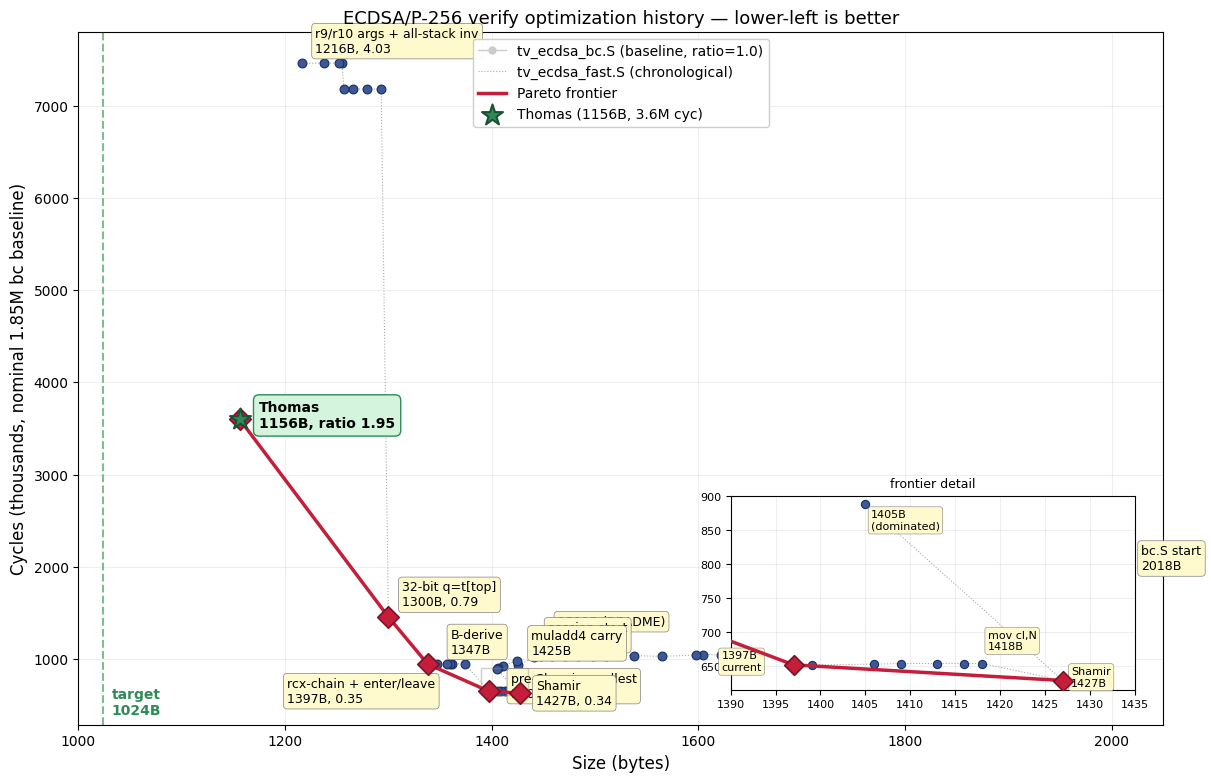
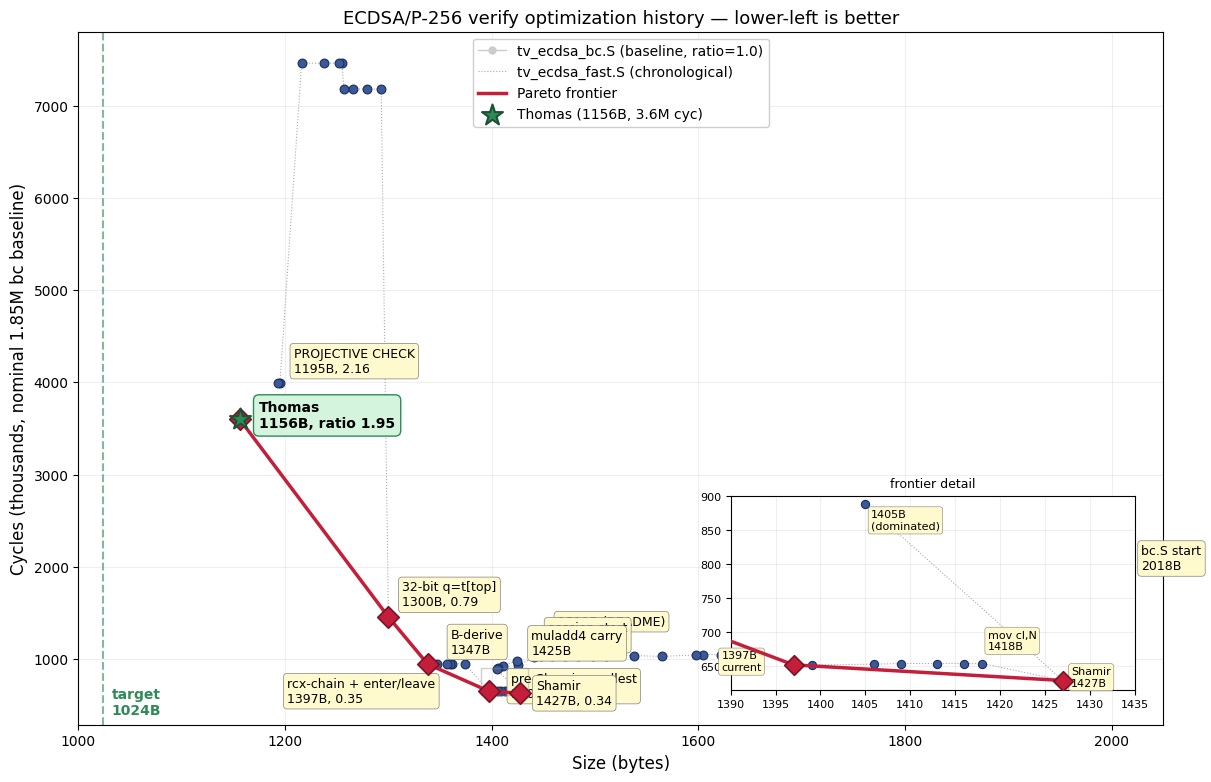
Chart: projective check at 1195B/2.16× — dominates Thomas on speed

Changed region(s): [[0.2444, 0.0307, 0.3972, 0.0921], [0.2139, 0.4297, 0.3666, 0.491]]

diff --git a/docs/plot_history.py b/docs/plot_history.py
@@ -68,7 +68,9 @@ FAST = [
     (1255, 7460, None),
     (1252, 7460, None),
     (1238, 7460, None),   # mul8 inline
-    (1216, 7460, "r9/r10 args + all-stack inv\n1216B, 4.03"),
+    (1216, 7460, None),
+    (1195, 3990, "PROJECTIVE CHECK\n1195B, 2.16"),  # 4000/1855*1850
+    (1193, 3990, None),
 ]
 
 def pareto(pts):
